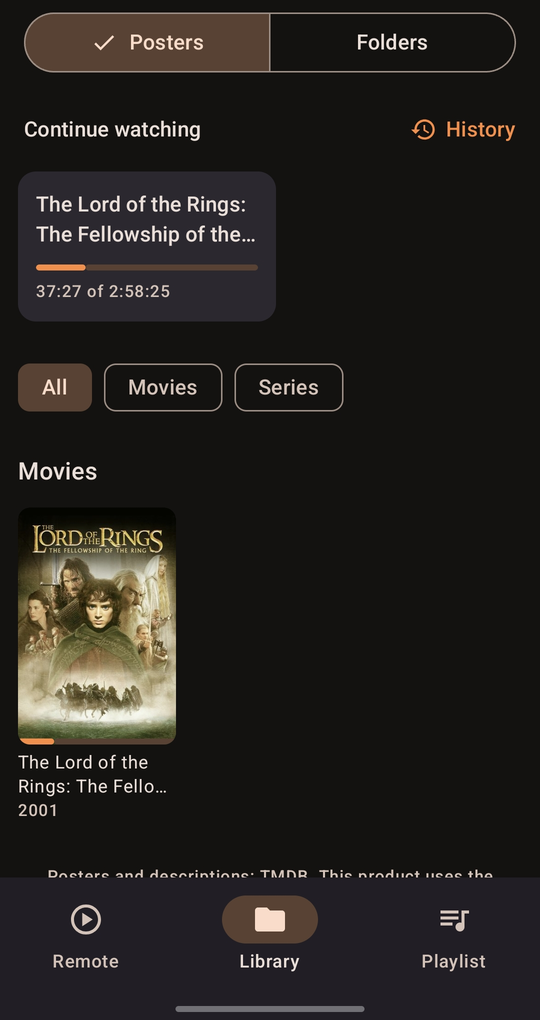
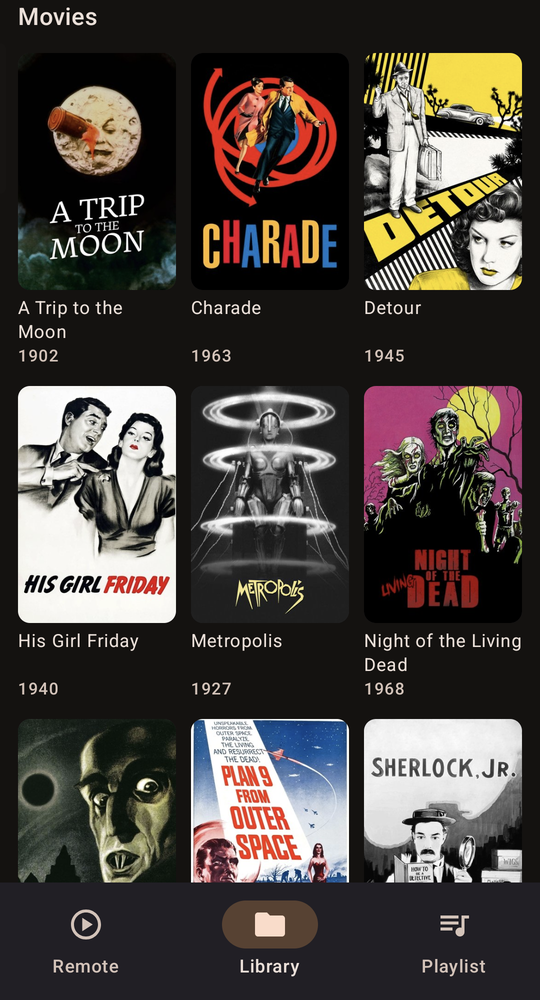
fix(android,docs): double gap under the status bar, phone screenshots (#41)
## Summary

- **Screenshots with covers** (`docs/images/`, used by the README and
the website): taken on a real phone against the
TV laptop with a temporary demo library of public-domain classics
(Metropolis, Nosferatu, Night of the Living Dead,
The General, …; empty files with release-style names, all matched on
TMDB) — the poster grid, the movie card
(Metropolis), the series page (Sherlock Holmes, 1954, with episode
stills) and the remote. Cropped below the app bar
so the PC name does not appear. The demo folder was removed and the
laptop's media folders restored afterwards.
- **Fix: a double gap under the status bar** on the screens with their
own top bar (settings, history, connection, a
series page): the app's outer `Scaffold` inset its content for the
status bar and the inner `TopAppBar` did it
again. Without the shared bars the outer `Scaffold` now adds no insets.

## Release notes

- Settings, history, connection and series pages no longer have an empty
gap above their title

## Testing

- `gradlew detekt :app:assembleRelease` — passed; the gap was seen on
the device (series page) before the fix.

## Device checks pending

- Settings / history / a series page: the title right under the status
bar, nothing hidden under it.

🤖 Generated with [Claude Code](https://claude.com/claude-code)

diff --git a/android/app/src/main/java/dev/vlcremote/app/ui/AppRoot.kt b/android/app/src/main/java/dev/vlcremote/app/ui/AppRoot.kt
@@ -10,6 +10,7 @@ import androidx.compose.foundation.layout.Box
 import androidx.compose.foundation.layout.Column
 import androidx.compose.foundation.layout.Row
 import androidx.compose.foundation.layout.Spacer
+import androidx.compose.foundation.layout.WindowInsets
 import androidx.compose.foundation.layout.fillMaxSize
 import androidx.compose.foundation.layout.fillMaxWidth
 import androidx.compose.foundation.layout.padding
@@ -30,6 +31,7 @@ import androidx.compose.material3.MaterialTheme
 import androidx.compose.material3.NavigationBar
 import androidx.compose.material3.NavigationBarItem
 import androidx.compose.material3.Scaffold
+import androidx.compose.material3.ScaffoldDefaults
 import androidx.compose.material3.SnackbarHost
 import androidx.compose.material3.SnackbarHostState
 import androidx.compose.material3.TopAppBar
@@ -206,6 +208,9 @@ fun AppRoot(forcePermissionsScreen: Boolean = false) {
 
     val showChrome = route in Routes.tabs
     Scaffold(
+        // Screens without the shared bars (settings, history, a series…) have their own Scaffold and TopAppBar that
+        // take the system bars into account: insetting them here too doubled the gap under the status bar.
+        contentWindowInsets = if (showChrome) ScaffoldDefaults.contentWindowInsets else WindowInsets(0),
         topBar = {
             if (showChrome) {
                 ConnectionTopBar(
